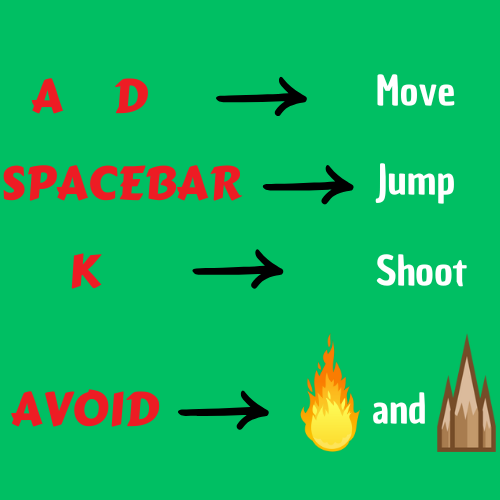
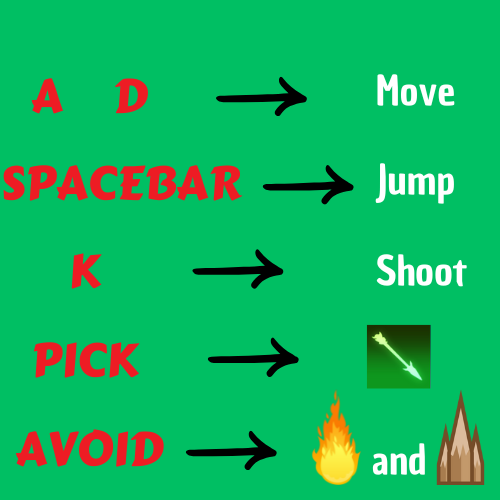
Slay-The-Beast_1.3

diff --git a/js/main.js b/js/main.js
@@ -17,6 +17,9 @@ let secondsLabel = document.querySelector("#seconds");
 //leaderboard
 let leaderboardNode = document.querySelector("#leaderboard");
 
+// Flechas
+let arrowsLeftLabel = document.querySelector("#arrows-left");
+
 // botones
 const startBtnNode = document.querySelector("#start-btn")
 const restartBtnNode = document.querySelector("#restart-btn")
@@ -27,17 +30,21 @@ const gameBoxNode = document.querySelector("#game-box")
 //* VARIABLES GLOBALES DEL JUEGO
 let totalSeconds = 0; //Contador para hacer la operación del temporizador.
 
+let totalArrows = 8;
+
 let arqueroObj = null;
 let beastObj = null;
 
 let fireballArray = [];
 let arrowArray = [];
 let spikeArray = [];
+let returnArrowArray = [];
 
 let gameIntervalId = null;
 let fireballSpawnIntervalId = null;
 let spikeSpawnIntervalId = null;
 let timerIntervalId = null;
+let returnArrowSpawnIntervalId = null;
 let spikeSpawnTimeoutId = null; //Declarar los Interval y Timeout como variables globales.
 
 let actualHealth = 1300; //Vida con la que empieza el enemigo y después se irá restando.
@@ -76,6 +83,8 @@ let Spikesnd = new Audio("./sounds/spike_spawn.wav");
 Spikesnd.volume = 0.05;
 let SpikeWarningsnd = new Audio("./sounds/spike_warning.wav");
 SpikeWarningsnd.volume = 0.10;
+let PickArrowsnd = new Audio("./sounds/pick_arrow.mp3");
+PickArrowsnd.volume = 0.05;
 /**************************************************/
 
 
@@ -85,9 +94,13 @@ function startGame(){
     actualHealth = 1300;
     actualHealthArcher = 300;//Cada vez que emmpieza la partida reseteamos las vidas al máximo
 
-    totalSeconds = 0; 
+    totalSeconds = 0;
+    
     minutesLabel.innerHTML = Math.floor(totalSeconds / 60).toString().padStart(2, "0");
     secondsLabel.innerHTML = (totalSeconds % 60).toString().padStart(2, "0");           //Cada vez que emmpieza la partida reseteamos el temporizador a 0
+
+    totalArrows = 8;
+    arrowsLeftLabel.innerHTML = totalArrows.toString().padStart(2, "0");
 
     healthRemaining.style.backgroundColor = `red`;
     GameOversnd.pause(); //Se pausa la música de fin del juego.
@@ -122,6 +135,10 @@ function startGame(){
         fireballSpawn();
     }, 790)
 
+    returnArrowSpawnIntervalId = setInterval(()=>{
+        returnArrowSpawn();
+    }, 3000)
+
     timerIntervalId = setInterval(setTime, 1000); // Intervalo del temporizador
 }
 
@@ -148,6 +165,8 @@ function gameLoop(){
     checkColisionArcherSpike(); //Despawn y colision del pincho
     spikeDespawn();
 
+    checkColisionArcherReturnArrow();
+
     arqueroObj.walkRigth();
     arqueroObj.walkLeft();
     arqueroObj.jumpEffect(); //Efectos de movimiento del jugador
@@ -165,6 +184,7 @@ function gameOver(){
     clearTimeout(spikeSpawnTimeoutId);
     clearInterval(spikeSpawnIntervalId);
     clearInterval(timerIntervalId);
+    clearInterval(returnArrowSpawnIntervalId);
 
     // 2. Ocultar la pantalla de juego
     gameScreenNode.style.display = "none";
@@ -186,6 +206,10 @@ function gameOver(){
         eachArrow.node.remove();
     })
     arrowArray= [];
+    returnArrowArray.forEach((eachArrowReturn)=>{
+        eachArrowReturn.node.remove();
+    })
+    returnArrowArray = [];
     spikeArray.forEach((eachSpike)=>{
         eachSpike.node.remove();
     })
@@ -205,6 +229,7 @@ function gameEnd(){
     clearTimeout(spikeSpawnTimeoutId);
     clearInterval(spikeSpawnIntervalId);
     clearInterval(timerIntervalId);
+    clearInterval(returnArrowSpawnIntervalId);
 
     // 2. Ocultar la pantalla de juego
     gameScreenNode.style.display = "none";
@@ -222,6 +247,10 @@ function gameEnd(){
         eachFireball.node.remove();
     })
     fireballArray = [];
+    returnArrowArray.forEach((eachArrowReturn)=>{
+        eachArrowReturn.node.remove();
+    })
+    returnArrowArray = [];
     arrowArray.forEach((eachArrow)=>{
         eachArrow.node.remove();
     })
@@ -338,6 +367,48 @@ function checkColisionArcherFireball(){ //Colisión de las bolas de fuego con el
 }
 /*******************************************************************/
 
+/*RETURN ARROW SPAWN, DESPAWN AND COLLISION */
+function returnArrowSpawn(){ // Spawn aleatorio de la recuperacion de flechas
+    let randomPositionX = Math.floor(Math.random() * 600);
+    let randomPositionY = Math.floor(Math.random() * ((gameBoxNode.offsetHeight - 100) - 400 + 1) + 400);
+    let returnArrowObj = new ReturnArrow(randomPositionX, randomPositionY);
+    returnArrowArray.push(returnArrowObj);
+}
+
+/*function returnArrowDespawn(){ // Despawn de la recuperacion de flechas
+    if (fireballArray.length > 0 && fireballArray[0].y > (gameBoxNode.offsetHeight - fireballArray[0].h)){
+
+        // 1. Remover el Nodo
+        returnArrowArray[0].node.remove();
+        // 2. Removerlo del JS (Array)
+        returnArrowArray.shift(); 
+    }
+}*/
+
+function checkColisionArcherReturnArrow(){ //Colisión de las bolas de fuego con el jugador
+    returnArrowArray.forEach((eachReturnArrowObj, i)=>{
+
+        if (
+            eachReturnArrowObj.x < (arqueroObj.x + arqueroObj.w) &&
+            eachReturnArrowObj.x + eachReturnArrowObj.w> arqueroObj.x &&
+            eachReturnArrowObj.y < (arqueroObj.y + arqueroObj.h) &&
+            eachReturnArrowObj.h + eachReturnArrowObj.y > arqueroObj.y
+          ) {
+            // ¡colisión detectada!
+            PickArrowsnd.play();
+
+            totalArrows++//Sumar una flecha al contador
+            arrowsLeftLabel.innerHTML = totalArrows.toString().padStart(2, "0");
+
+            // 1. Remover el Nodo
+            eachReturnArrowObj.node.remove();
+            // 2. Removerlo del JS (Array)
+            returnArrowArray.splice(i, 1);
+          }
+
+    })
+}
+/************************************/
 /*SPIKE SPAWN, DESPAWN AND COLLISION*/
 function spikeSpawn(){ // Spawn del pincho en la posición x del jugador
         Spikesnd.play();
@@ -381,7 +452,7 @@ function checkColisionArcherSpike(){ // Colisión del pincho con el jugador
 
 /*ARROW SPAWN, DESPAWN AND COLLISION*/
 window.addEventListener("keydown",(event)=>{ // Spawn de la flecha en la posicion X e Y del jugador
-    if (event.code === "KeyK" && arqueroObj.canShoot === true){
+    if (event.code === "KeyK" && arqueroObj.canShoot === true && totalArrows > 0){
 
         /*ANIMACION ATAQUE*/
         arqueroObj.arrayArcher = ["./images/Archer/Attack3.PNG", "./images/Archer/Attack1.PNG"];
@@ -408,6 +479,9 @@ window.addEventListener("keydown",(event)=>{ // Spawn de la flecha en la posicio
         //console.log(arrowArray.length);
 
         Arrowsnd.play(); // Sonido de la flecha
+
+        totalArrows--//Restar una flecha del contador
+        arrowsLeftLabel.innerHTML = totalArrows.toString().padStart(2, "0");
 
         arqueroObj.canShoot = false;
 

diff --git a/js/returnArrow.js b/js/returnArrow.js
@@ -1,0 +1,24 @@
+class ReturnArrow{
+    constructor(positionX, positionY){
+        // 1. Crear el nodo y añadirlo a la caja del juego
+        this.node = document.createElement("img");
+        this.node.src = "./images/returnArrow.png";
+        
+        gameBoxNode.append(this.node);
+
+        // 2. configurar propiedades iniciales
+        this.x = positionX; //posicion eje horizontal
+        this.y = positionY; //posicion eje vertical
+        this.w = 40;
+        this.h = 40;
+
+        this.node.style.position = "absolute" //para poder ubicarlo dentro de la caja del juego
+        this.node.style.left = `${this.x}px`;
+        this.node.style.top = `${this.y}px`;
+        this.node.style.width = `${this.w}px`;
+        this.node.style.height = `${this.h}px`;
+        
+        // 3. añadir propiedades adicionales
+    }
+
+}

diff --git a/styles/style.css b/styles/style.css
@@ -119,14 +119,23 @@ body {
 #minutes {
   font-size: 2em;
   margin-left: 20px;
+  font-size: 2rem;
+  font-weight: bold;
+  font-family:'Courier New', Courier, monospace;
 }
 
 #seconds {
   font-size: 2em;
+  font-size: 2rem;
+  font-weight: bold;
+  font-family:'Courier New', Courier, monospace;
 }
 
 #colon {
   font-size: 2em;
+  font-size: 2rem;
+  font-weight: bold;
+  font-family:'Courier New', Courier, monospace;
 }
 
 #best-times-title{
@@ -164,4 +173,17 @@ p{
   border-color: black;
   border-radius: 10px;
   padding: 0% 2% 2% 2%;
+}
+
+#arrows-left{
+  color: brown;
+  background-color: white;
+  border-style: solid;
+  border-width: 2px;
+  border-color: black;
+  font-size: 2rem;
+  font-weight: bold;
+  font-family:'Courier New', Courier, monospace;
+  margin-left: 20px;
+  padding: 0% 0.5% 0% 0.5%;
 }

diff --git a/index.html b/index.html
@@ -28,8 +28,9 @@
           <div id="timer">
             <label id="minutes">00</label>
             <label id="colon">:</label>
-            <label id="seconds">00</label>
+            <label id="seconds">00</label>   
           </div>
+          <label id="arrows-left">08</label>
         </div>
         
     </div>
@@ -55,5 +56,6 @@
    <script src="./js/fireball.js"></script>
    <script src="./js/arrow.js"></script>
    <script src="./js/spike.js"></script>
+   <script src="./js/returnArrow.js"></script>
 </body>
 </html>
